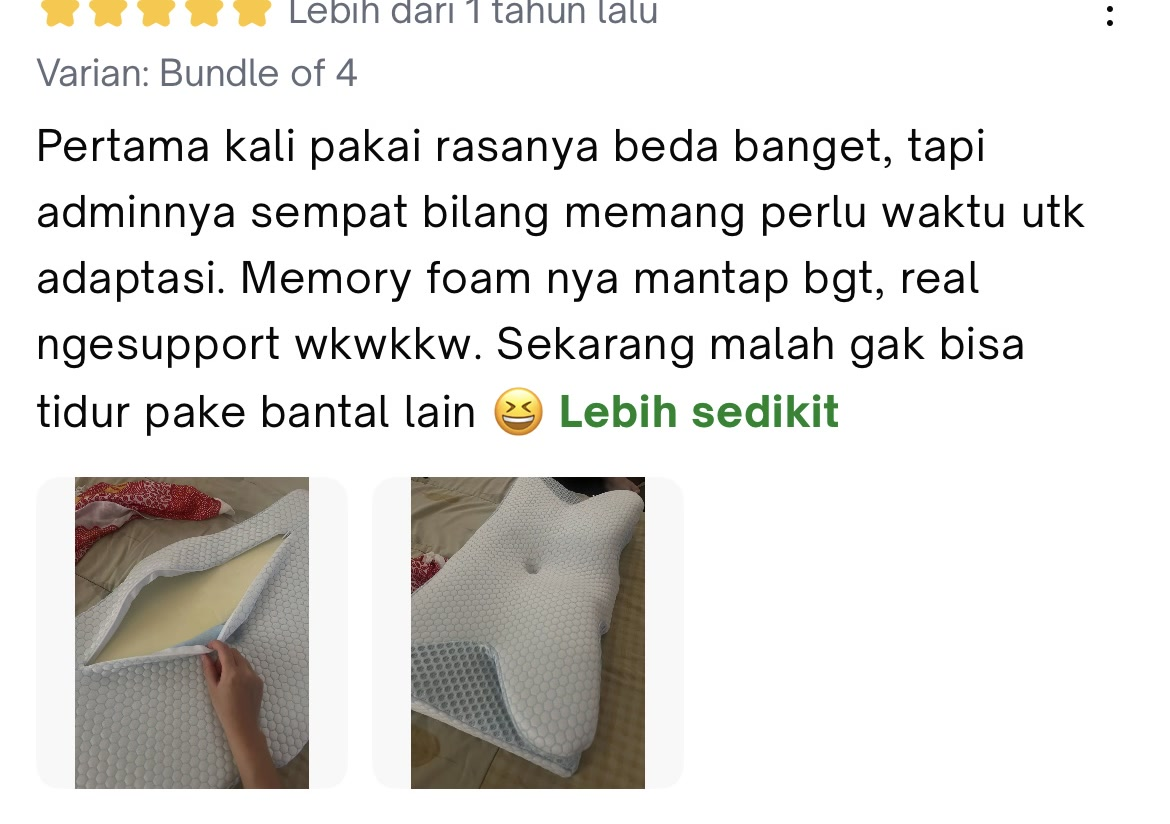
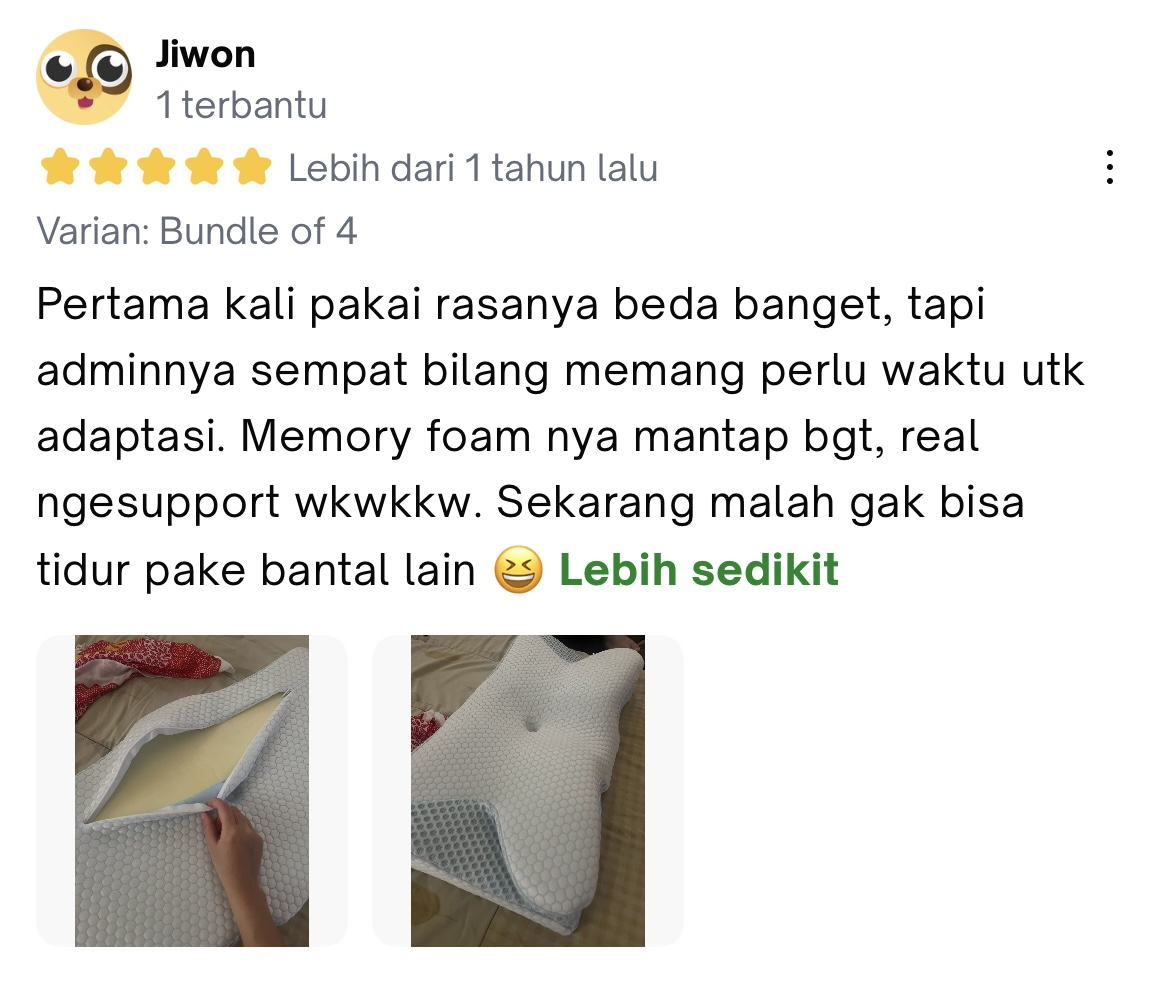
feat: use untouched review captures, drop the modal, restyle the Shopee CTA
Product cards now use the light-blue PDP listing images, and the buy
button returns to Sheepie navy with the Shopee mark in front.

Changed region(s): [[0.0308, 0.0, 0.9231, 0.9709]]

diff --git a/data/bio.ts b/data/bio.ts
@@ -73,10 +73,8 @@ export function maskAuthor(handle: string): string {
  * rather than repetition: an objection answered, the core benefit, and a signal
  * of repeat trust.
  *
- * Each screenshot is a phone capture, cropped above the star row so the
- * reviewer's avatar and handle are removed from the image itself; the card shows
- * a masked handle instead. `quote` carries the visible text for assistive
- * technology and search engines.
+ * Screenshots are the untouched marketplace captures. `quote` carries their
+ * visible text for assistive technology and search engines.
  */
 const rawTestimonials: BioTestimonial[] = [
   // CerviCloud Pillow — the shape looks odd at first, so lead with that objection.
@@ -87,7 +85,7 @@ const rawTestimonials: BioTestimonial[] = [
     marketplace: "tokopedia",
     quote:
       "Awalnya agak aneh karena bentuknya beda dari bantal biasa, tapi setelah 2 minggu mulai kerasa bedanya. Leher jadi gak gampang pegal, dan bangun tidur gak kaku lagi. Postur badan lebih terjaga pas tidur.",
-    screenshot: { src: "/images/bio/testimonials/cervicloud-1.jpg", width: 1170, height: 806 },
+    screenshot: { src: "/images/bio/testimonials/cervicloud-1.jpg", width: 1170, height: 975 },
   },
   {
     id: "cervicloud-2",
@@ -96,7 +94,7 @@ const rawTestimonials: BioTestimonial[] = [
     marketplace: "tokopedia",
     quote:
       "Pertama kali pakai rasanya beda banget, tapi adminnya sempat bilang memang perlu waktu untuk adaptasi. Memory foam nya mantap banget, real ngesupport. Sekarang malah gak bisa tidur pake bantal lain.",
-    screenshot: { src: "/images/bio/testimonials/cervicloud-2.jpg", width: 1170, height: 824 },
+    screenshot: { src: "/images/bio/testimonials/cervicloud-2.jpg", width: 1170, height: 982 },
   },
   {
     id: "cervicloud-3",
@@ -105,7 +103,7 @@ const rawTestimonials: BioTestimonial[] = [
     marketplace: "tokopedia",
     quote:
       "Udah beli 2 kali disini. Sama-sama tidur miring, suka banget sama desain ergonomiknya, cerdas! Ada bagian khusus buat tangan pas tidur miring, gak kerasa kesemutan lagi.",
-    screenshot: { src: "/images/bio/testimonials/cervicloud-3.jpg", width: 1170, height: 866 },
+    screenshot: { src: "/images/bio/testimonials/cervicloud-3.jpg", width: 1170, height: 1013 },
   },
 
   // LumiCloud EyeMask — blackout is the promise; strap and comfort are the doubts.
@@ -116,7 +114,7 @@ const rawTestimonials: BioTestimonial[] = [
     marketplace: "shopee",
     quote:
       "Bahan berkualitas, lembut, cahaya tidak tembus. Bahan lembut tidak buat sakit atau pegal bagian belakang kepala, sangat recomended.",
-    screenshot: { src: "/images/bio/testimonials/lumicloud-1.jpg", width: 1170, height: 1116 },
+    screenshot: { src: "/images/bio/testimonials/lumicloud-1.jpg", width: 1170, height: 1278 },
   },
   {
     id: "lumicloud-2",
@@ -125,7 +123,7 @@ const rawTestimonials: BioTestimonial[] = [
     marketplace: "shopee",
     quote:
       "Bagus halus banget bahannya, tebel empuk dan nyaman dipakai lama. Yang paling oke adalah fitur silent velcro nya.",
-    screenshot: { src: "/images/bio/testimonials/lumicloud-2.jpg", width: 1170, height: 1324 },
+    screenshot: { src: "/images/bio/testimonials/lumicloud-2.jpg", width: 1170, height: 1467 },
   },
   {
     id: "lumicloud-3",
@@ -134,7 +132,7 @@ const rawTestimonials: BioTestimonial[] = [
     marketplace: "shopee",
     quote:
       "Aku udah coba pake dan beneran halus dan gak ngerusak bulu mata palsuku! Tidur juga jadi makin pules soalnya aku gampang kebangun tengah malem.",
-    screenshot: { src: "/images/bio/testimonials/lumicloud-3.jpg", width: 1168, height: 1052 },
+    screenshot: { src: "/images/bio/testimonials/lumicloud-3.jpg", width: 1169, height: 1199 },
   },
 
   // CalmiCloud Earplug — noise is the problem; lead with the most concrete outcome.
@@ -145,7 +143,7 @@ const rawTestimonials: BioTestimonial[] = [
     marketplace: "shopee",
     quote:
       "Aku tipe orang light sleeper, ada suara dikit kebangun dan susah buat balik tidur lagi. Tapi pertama kali pake ini aku malemnya tidur 12 jam. Cukup banget bahkan buat aku yang sensitif.",
-    screenshot: { src: "/images/bio/testimonials/calmicloud-1.jpg", width: 1170, height: 1700 },
+    screenshot: { src: "/images/bio/testimonials/calmicloud-1.jpg", width: 1170, height: 1829 },
   },
   {
     id: "calmicloud-2",
@@ -154,7 +152,7 @@ const rawTestimonials: BioTestimonial[] = [
     marketplace: "shopee",
     quote:
       "Sesuai judulnya, Moldable jadi bisa ditempel langsung di sekitar lubang telinga sesuai dengan bentuk yang kamu inginkan. Sangat bantu untuk redam suara dari luar.",
-    screenshot: { src: "/images/bio/testimonials/calmicloud-2.jpg", width: 1170, height: 1442 },
+    screenshot: { src: "/images/bio/testimonials/calmicloud-2.jpg", width: 1170, height: 1598 },
   },
   {
     id: "calmicloud-3",
@@ -163,7 +161,7 @@ const rawTestimonials: BioTestimonial[] = [
     marketplace: "shopee",
     quote:
       "Barang sesuai, pengiriman cepat. Kosan berisik, pake ini jadi lebih kebantu buat tidur. Rekomended.",
-    screenshot: { src: "/images/bio/testimonials/calmicloud-3.jpg", width: 1170, height: 1118 },
+    screenshot: { src: "/images/bio/testimonials/calmicloud-3.jpg", width: 1170, height: 1273 },
   },
 ];
 
@@ -213,8 +211,8 @@ const productStories: Array<Omit<BioProduct, "price" | "actions">> = [
     description:
       "Kontur ergonomis 4D memeluk leher dan membantu menjaga posisi tidur alami, dengan permukaan Ice-Silk yang terasa sejuk.",
     image: {
-      src: "/images/edited/DSC01139.JPG",
-      alt: "Bantal ergonomis CerviCloud berwarna putih dengan kontur penyangga leher",
+      src: "/images/products/cervicloud/listing-01.png",
+      alt: "Bantal ergonomis CerviCloud dengan kontur penyangga leher di latar biru muda",
     },
   },
   {
@@ -226,8 +224,8 @@ const productStories: Array<Omit<BioProduct, "price" | "actions">> = [
     description:
       "Ruang mata 3D dan kain katun lembut menciptakan gelap menyeluruh dengan rasa ringan, sejuk, dan nyaman.",
     image: {
-      src: "/images/edited/DSC01058.JPG",
-      alt: "Masker tidur LumiCloud biru muda dengan ruang mata tiga dimensi",
+      src: "/images/products/lumicloud/listing-01.png",
+      alt: "Masker tidur LumiCloud biru muda dengan ruang mata tiga dimensi di latar biru muda",
     },
   },
   {
@@ -239,8 +237,8 @@ const productStories: Array<Omit<BioProduct, "price" | "actions">> = [
     description:
       "Silikon kelas medis yang dapat dibentuk menutup bagian luar telinga dengan nyaman untuk membantu meredam suara sekitar.",
     image: {
-      src: "/images/edited/DSC01313.JPG",
-      alt: "Earplug silikon CalmiCloud dalam wadah penyimpanan transparan",
+      src: "/images/products/calmicloud/listing-01.png",
+      alt: "Earplug silikon CalmiCloud dalam wadah transparan di latar biru muda",
     },
   },
 ];

diff --git a/components/bio/bio-testimonials.tsx b/components/bio/bio-testimonials.tsx
@@ -1,8 +1,7 @@
 "use client";
 
 import Image from "next/image";
-import { useEffect, useRef, useState } from "react";
-import { X } from "lucide-react";
+import { useState } from "react";
 
 import type { BioProduct, BioTestimonial } from "@/data/bio";
 
@@ -19,17 +18,6 @@ export function BioTestimonials({ products, testimonials, logos }: BioTestimonia
     testimonials.some((review) => review.product === product.slug),
   );
   const [activeSlug, setActiveSlug] = useState(available[0]?.slug);
-  const [preview, setPreview] = useState<BioTestimonial | null>(null);
-  const dialogRef = useRef<HTMLDialogElement>(null);
-
-  // <dialog> gives focus trapping, Escape, and inert background for free.
-  useEffect(() => {
-    const dialog = dialogRef.current;
-    if (!dialog) return;
-
-    if (preview && !dialog.open) dialog.showModal();
-    if (!preview && dialog.open) dialog.close();
-  }, [preview]);
 
   if (available.length === 0) return null;
 
@@ -73,62 +61,18 @@ export function BioTestimonials({ products, testimonials, logos }: BioTestimonia
                 className={styles.testimonialSource}
               />
             </div>
-            {/* The capture is a 3x phone screenshot, so it stays readable at
-                column width. Tapping opens it full size. */}
-            <button
-              type="button"
-              className={styles.testimonialShot}
-              onClick={() => setPreview(testimonial)}
-              aria-label={`Perbesar ulasan ${testimonial.author}. ${testimonial.quote}`}
-            >
-              <Image
-                src={testimonial.screenshot.src}
-                alt={testimonial.quote}
-                width={testimonial.screenshot.width}
-                height={testimonial.screenshot.height}
-                sizes="(max-width: 480px) 92vw, 28rem"
-                className={styles.testimonialImage}
-              />
-            </button>
+            {/* The capture is a 3x phone screenshot, so it stays readable at column width. */}
+            <Image
+              src={testimonial.screenshot.src}
+              alt={testimonial.quote}
+              width={testimonial.screenshot.width}
+              height={testimonial.screenshot.height}
+              sizes="(max-width: 480px) 92vw, 28rem"
+              className={styles.testimonialImage}
+            />
           </li>
         ))}
       </ul>
-
-      <dialog
-        ref={dialogRef}
-        className={styles.previewDialog}
-        aria-label="Tangkapan layar ulasan"
-        onClose={() => setPreview(null)}
-        onClick={(event) => {
-          // Clicking the backdrop resolves to the dialog element itself.
-          if (event.target === dialogRef.current) setPreview(null);
-        }}
-      >
-        {preview ? (
-          <div className={styles.previewBody}>
-            <button
-              type="button"
-              className={styles.previewClose}
-              onClick={() => setPreview(null)}
-              aria-label="Tutup tangkapan layar"
-            >
-              <X size={18} aria-hidden="true" />
-            </button>
-            <Image
-              src={preview.screenshot.src}
-              alt={`Ulasan ${preview.author} di ${
-                preview.marketplace === "shopee" ? "Shopee" : "Tokopedia"
-              }`}
-              width={preview.screenshot.width}
-              height={preview.screenshot.height}
-              // Unoptimised so the original capture is served: a downscaled
-              // variant would put the review text back below reading size.
-              unoptimized
-              className={styles.previewImage}
-            />
-          </div>
-        ) : null}
-      </dialog>
     </>
   );
 }

diff --git a/components/bio/bio-page.module.css b/components/bio/bio-page.module.css
@@ -5,7 +5,6 @@
   --bio-white: #fff;
   --bio-text-secondary: #4b5878;
   --bio-border: color-mix(in srgb, var(--bio-navy) 12%, transparent);
-  --bio-shopee: #ee4d2d;
   min-height: 100vh;
   padding-left: max(0px, env(safe-area-inset-left));
   padding-right: max(0px, env(safe-area-inset-right));
@@ -164,9 +163,9 @@
   align-items: center;
   justify-content: center;
   gap: 0.3rem;
-  border: 1px solid var(--bio-shopee);
+  border: 1px solid var(--bio-navy);
   border-radius: 0.7rem;
-  background: var(--bio-shopee);
+  background: var(--bio-navy);
   color: var(--bio-white);
   font-size: 0.82rem;
   font-weight: 600;
@@ -181,6 +180,13 @@
   display: grid;
   grid-template-columns: repeat(2, minmax(0, 1fr));
   gap: 0.5rem;
+}
+
+.ctaLogo {
+  width: 1.05rem;
+  height: 1.05rem;
+  flex-shrink: 0;
+  border-radius: 0.22rem;
 }
 
 .hubLogo {
@@ -273,70 +279,12 @@
   border-radius: 0.2rem;
 }
 
-.testimonialShot {
-  display: block;
-  width: 100%;
-  margin-top: 0.5rem;
-  padding: 0;
-  border: none;
-  border-radius: 0.6rem;
-  background: none;
-  cursor: zoom-in;
-  overflow: hidden;
-}
-
 .testimonialImage {
   display: block;
   width: 100%;
   height: auto;
-}
-
-.previewDialog {
-  width: min(100vw - 1.5rem, 40rem);
-  max-height: 85vh;
-  /* Modal dialogs centre via auto margins; padding:0 alone leaves them top-left. */
-  margin: auto;
-  padding: 0;
-  border: none;
-  border-radius: 1rem;
-  background: transparent;
-  overflow: visible;
-}
-
-.previewDialog::backdrop {
-  background: rgba(15, 24, 51, 0.72);
-}
-
-.previewBody {
-  position: relative;
-  max-height: 85vh;
-  overflow: auto;
-  border-radius: 1rem;
-  background: var(--bio-white);
-}
-
-/* Shown at full size and panned, since these captures are desktop-width and
-   shrinking them to the dialog would make the review text unreadable again. */
-.previewImage {
-  display: block;
-  width: auto;
-  max-width: none;
-  height: auto;
-}
-
-.previewClose {
-  position: absolute;
-  top: 0.5rem;
-  right: 0.5rem;
-  display: grid;
-  width: 2.25rem;
-  height: 2.25rem;
-  place-items: center;
-  border: 1px solid var(--bio-border);
-  border-radius: 999px;
-  background: var(--bio-white);
-  color: var(--bio-navy);
-  cursor: pointer;
+  margin-top: 0.5rem;
+  border-radius: 0.6rem;
 }
 
 /* ---------- share + footer ---------- */
@@ -377,11 +325,11 @@
   }
 
   .primaryButton:hover {
-    background: color-mix(in srgb, var(--bio-shopee) 88%, #000);
+    background: color-mix(in srgb, var(--bio-navy) 88%, #fff);
   }
 }
 
-:is(.primaryButton, .hubLink, .testimonialShot, .reviewTab):focus-visible {
+:is(.primaryButton, .hubLink, .reviewTab):focus-visible {
   outline: 2px solid var(--bio-navy);
   outline-offset: 2px;
 }

diff --git a/components/bio/bio-page.tsx b/components/bio/bio-page.tsx
@@ -1,6 +1,5 @@
 import Image from "next/image";
 import {
-  ArrowUpRight,
   Globe2,
   Instagram,
   Mail,
@@ -140,8 +139,14 @@ export function BioPage({ config }: BioPageProps) {
                       position="product-primary"
                       className={styles.primaryButton}
                     >
+                      <Image
+                        src={brandLogos.shopee!}
+                        alt=""
+                        width={17}
+                        height={17}
+                        className={styles.ctaLogo}
+                      />
                       <span>Beli di Shopee</span>
-                      <ArrowUpRight size={14} aria-hidden="true" />
                     </MarketplaceButton>
                   </div>
                 </article>
